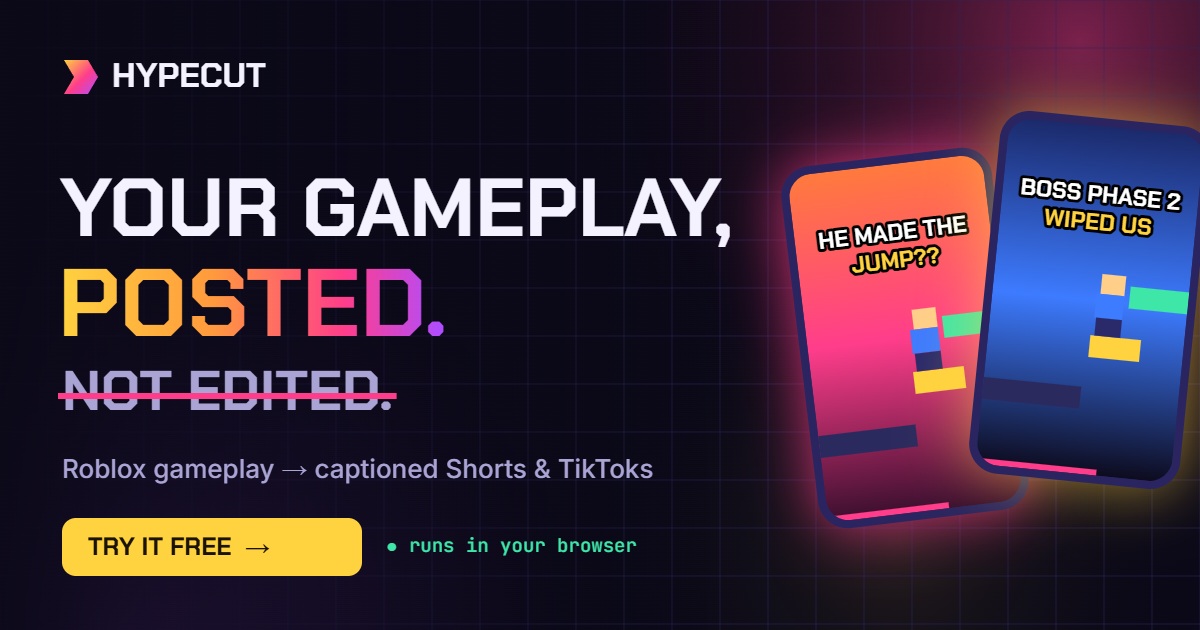
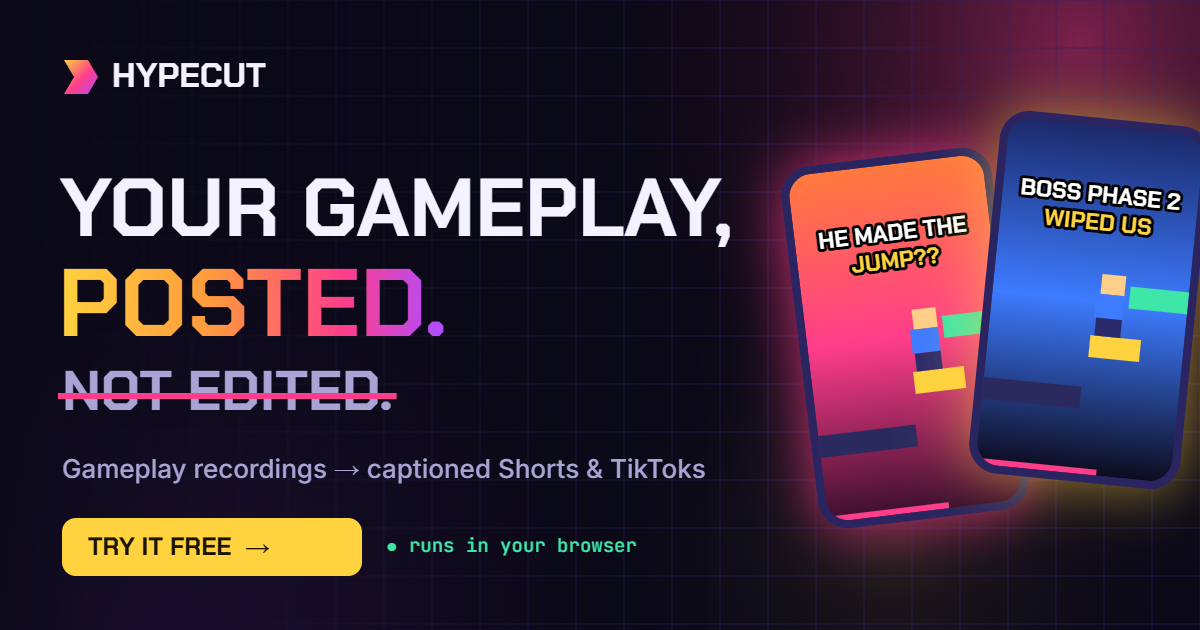
Remove leftover demo code (broke scripts), new share image without third-party branding, drop price-lock clause, claude.ai build works without demo

Changed region(s): [[0.0308, 0.7238, 0.5858, 0.7841]]

diff --git a/hypecut-site/index.html b/hypecut-site/index.html
@@ -266,80 +266,6 @@ nav.top .btn { padding: 10px 18px; font-size: .82rem; border-radius: 11px; margi
 .step p { color: var(--muted); }
 @media (max-width: 820px) { .steps { grid-template-columns: 1fr; } .steps-line { display: none; } }
 
-/* ---------- demo ---------- */
-.band { background: linear-gradient(180deg, transparent, color-mix(in srgb, var(--bg-2) 85%, transparent) 12%, color-mix(in srgb, var(--bg-2) 85%, transparent) 88%, transparent); }
-.demo { display: grid; grid-template-columns: 1fr 1.5fr; gap: 30px; align-items: start; }
-@media (max-width: 920px) { .demo { grid-template-columns: 1fr; } }
-.console { min-width: 0; overflow: hidden; }
-.console-bar { display: flex; align-items: center; justify-content: space-between; padding: 14px 18px; border-bottom: 1px solid var(--line); font-family: var(--f-mono); font-size: .76rem; color: var(--muted); }
-.dots { display: flex; gap: 7px; }
-.dots i { width: 11px; height: 11px; border-radius: 50%; background: var(--line); display: block; }
-.dots i:nth-child(1) { background: #ff5f57; } .dots i:nth-child(2) { background: #febc2e; } .dots i:nth-child(3) { background: #28c840; }
-.console-body { padding: 22px; display: grid; gap: 18px; }
-.drop { position: relative; border-radius: 18px; padding: 30px 16px; text-align: center; display: grid; gap: 10px; justify-items: center; cursor: pointer; background: color-mix(in srgb, var(--bg) 60%, transparent); transition: background .3s, transform .3s var(--ease); }
-.drop::before { content: ""; position: absolute; inset: 0; border-radius: inherit; padding: 2px; background: repeating-linear-gradient(90deg, var(--line) 0 10px, transparent 10px 18px); -webkit-mask: linear-gradient(#000 0 0) content-box, linear-gradient(#000 0 0); -webkit-mask-composite: xor; mask-composite: exclude; transition: background .3s; }
-.drop:hover, .drop.over { background: color-mix(in srgb, var(--cta) 7%, transparent); transform: scale(1.01); }
-.drop:hover::before, .drop.over::before { background: repeating-linear-gradient(90deg, var(--cta) 0 10px, transparent 10px 18px); animation: hc-march .8s linear infinite; }
-@keyframes hc-march { to { background-position: 18px 0; } }
-.drop svg { transition: transform .5s var(--ease-back); }
-.drop:hover svg { transform: translateY(-5px); }
-.drop strong { font-family: var(--f-display); font-size: 1.2rem; text-transform: uppercase; }
-.drop span { color: var(--muted); font-size: .9rem; }
-.drop input { position: absolute; width: 1px; height: 1px; opacity: 0; pointer-events: none; }
-.opts { display: grid; grid-template-columns: 1fr 1fr; gap: 12px; }
-.opts label { display: grid; gap: 6px; font-size: .74rem; color: var(--muted); font-family: var(--f-mono); text-transform: uppercase; letter-spacing: .08em; }
-select { font: inherit; font-family: var(--f-body); text-transform: none; letter-spacing: 0; font-size: .95rem; background: var(--bg); color: var(--fg); border: 0; box-shadow: inset 0 0 0 1px var(--line); border-radius: 12px; padding: 10px 12px; transition: box-shadow .25s; }
-select:hover { box-shadow: inset 0 0 0 1px var(--muted); }
-.file-row { display: flex; justify-content: space-between; gap: 12px; font-family: var(--f-mono); font-size: .8rem; background: var(--bg); box-shadow: inset 0 0 0 1px var(--line); border-radius: 12px; padding: 11px 13px; min-width: 0; }
-.file-row .name { overflow: hidden; text-overflow: ellipsis; white-space: nowrap; min-width: 0; }
-.file-row .size { color: var(--muted); flex-shrink: 0; }
-.wave { display: flex; align-items: center; gap: 3px; height: 44px; padding: 0 2px; }
-.wave i { flex: 1; min-width: 2px; border-radius: 2px; background: var(--line); height: var(--h, 20%); transition: background .3s, height .3s var(--ease); }
-.wave i.hit { background: linear-gradient(var(--cta), var(--hot)); }
-.wave.scan i { animation: hc-eq .9s ease-in-out infinite alternate; animation-delay: calc(var(--i) * -37ms); }
-@keyframes hc-eq { to { height: calc(var(--h) * .35 + 10%); } }
-.prog { display: grid; gap: 8px; }
-.prog-track { height: 10px; background: var(--bg); box-shadow: inset 0 0 0 1px var(--line); border-radius: 999px; position: relative; overflow: hidden; }
-.prog-fill { position: absolute; inset: 0 auto 0 0; width: 0; border-radius: inherit; background: linear-gradient(90deg, var(--cta), var(--hot), var(--hot-2)); box-shadow: 0 0 18px var(--hot); transition: width .25s linear; }
-.prog-fill::after { content: ""; position: absolute; inset: 0; background: repeating-linear-gradient(-45deg, rgba(255,255,255,.22) 0 8px, transparent 8px 16px); animation: hc-march .6s linear infinite; background-size: 22px 100%; }
-.prog-label { display: flex; justify-content: space-between; font-family: var(--f-mono); font-size: .76rem; color: var(--muted); font-variant-numeric: tabular-nums; }
-.stages { list-style: none; margin: 0; padding: 0; display: grid; gap: 7px; font-family: var(--f-mono); font-size: .8rem; }
-.stages li { color: var(--muted); display: flex; gap: 10px; align-items: center; transition: color .3s, transform .4s var(--ease); }
-.stages li::before { content: ""; width: 14px; height: 14px; border-radius: 50%; box-shadow: inset 0 0 0 2px var(--line); flex-shrink: 0; transition: all .3s; }
-.stages li.active { color: var(--fg); transform: translateX(4px); }
-.stages li.active::before { box-shadow: inset 0 0 0 2px var(--cta); border-top: 2px solid transparent; animation: hc-spin .8s linear infinite; background: conic-gradient(var(--cta) 0 25%, transparent 25%); }
-.stages li.done { color: var(--ok); }
-.stages li.done::before { background: var(--ok); box-shadow: 0 0 10px var(--ok); }
-@keyframes hc-spin { to { transform: rotate(360deg); } }
-
-.clips-head { display: flex; justify-content: space-between; align-items: baseline; gap: 12px; margin-bottom: 16px; flex-wrap: wrap; }
-.clips-head h3 { font-size: 1.35rem; text-transform: uppercase; }
-.tag { font-family: var(--f-mono); font-size: .7rem; letter-spacing: .1em; text-transform: uppercase; box-shadow: inset 0 0 0 1px var(--line); color: var(--muted); padding: 4px 10px; border-radius: 999px; transition: color .3s, box-shadow .3s; }
-.tag.live { color: var(--cta); box-shadow: inset 0 0 0 1px var(--cta); }
-.clips { display: grid; grid-template-columns: repeat(3, 1fr); gap: 18px; min-width: 0; }
-@media (max-width: 560px) { .clips { grid-template-columns: 1fr 1fr; } .clips .clip:last-child { grid-column: 1 / -1; max-width: 60%; justify-self: center; width: 100%; } }
-.clip { display: grid; gap: 10px; min-width: 0; transition: opacity .4s, filter .4s; }
-.clip.dim { opacity: .25; filter: blur(2px) grayscale(.6); }
-.clip.enter { animation: hc-clipIn .8s var(--ease-back) both; animation-delay: var(--d); }
-@keyframes hc-clipIn { from { opacity: 0; transform: translateY(40px) scale(.85) rotate(-3deg); } to { opacity: 1; transform: none; } }
-.clip .frame { position: relative; aspect-ratio: 9/16; max-width: 100%; border-radius: 18px; overflow: hidden; background: var(--bg); cursor: pointer; box-shadow: 0 0 0 1px var(--line), 0 20px 40px -20px rgba(0,0,0,.8); transition: transform .5s var(--ease), box-shadow .5s var(--ease); }
-.clip .frame:hover { transform: translateY(-8px) scale(1.02); box-shadow: 0 0 0 2px var(--hot), 0 30px 50px -18px color-mix(in srgb, var(--hot) 70%, transparent); }
-.clip:not(.playing) .scene * { animation-play-state: paused; }
-.clip:not(.playing) .scene .cap { animation: none; }
-.play { position: absolute; left: 50%; top: 42%; transform: translate(-50%, -50%); width: 54px; height: 54px; border-radius: 50%; background: rgba(13, 11, 30, .55); backdrop-filter: blur(6px); box-shadow: inset 0 0 0 2px rgba(255,255,255,.9); display: grid; place-items: center; transition: transform .4s var(--ease-back), opacity .3s; }
-.play::before { content: ""; border-left: 15px solid #fff; border-top: 10px solid transparent; border-bottom: 10px solid transparent; margin-left: 4px; }
-.clip .frame:hover .play { transform: translate(-50%, -50%) scale(1.15); }
-.clip.playing .play { opacity: 0; transform: translate(-50%, -50%) scale(1.6); }
-.score { position: absolute; top: 9px; left: 9px; font-family: var(--f-mono); font-size: .68rem; background: var(--cta); color: var(--cta-ink); padding: 3px 7px; border-radius: 7px; font-weight: 500; }
-.dur { position: absolute; top: 9px; right: 9px; font-family: var(--f-mono); font-size: .68rem; background: rgba(0,0,0,.55); color: #fff; padding: 3px 7px; border-radius: 7px; font-variant-numeric: tabular-nums; }
-.clip .meta { display: grid; gap: 4px; }
-.clip .meta b { font-family: var(--f-display); text-transform: uppercase; font-size: .98rem; line-height: 1.15; }
-.clip .meta small { color: var(--muted); font-size: .76rem; font-family: var(--f-mono); }
-.clip .dl { display: flex; gap: 6px; flex-wrap: wrap; }
-.clip .dl button { font: inherit; font-family: var(--f-mono); font-size: .7rem; text-transform: uppercase; background: transparent; color: var(--fg); border: 0; box-shadow: inset 0 0 0 1px var(--line); border-radius: 8px; padding: 6px 9px; cursor: pointer; transition: box-shadow .25s, color .25s, transform .25s var(--ease); }
-.clip .dl button:hover { box-shadow: inset 0 0 0 1px var(--cta); color: var(--cta); transform: translateY(-2px); }
-.toast { margin-top: 18px; font-family: var(--f-mono); font-size: .8rem; color: var(--muted); min-height: 1.4em; }
-
 /* ---------- pricing ---------- */
 .plans { display: grid; grid-template-columns: repeat(2, minmax(0, 400px)); gap: 26px; }
 @media (max-width: 760px) { .plans { grid-template-columns: 1fr; } }
@@ -780,116 +706,6 @@ footer a:hover { color: var(--cta); }
   }
   document.getElementById("heroPhone1").innerHTML = sceneHTML(SCENES[0], true);
   document.getElementById("heroPhone2").innerHTML = sceneHTML(SCENES[1], true);
-
-  // ---------- clip cards ----------
-  const clipsEl = document.getElementById("clips");
-  const toast = document.getElementById("toast");
-  function renderClips(list, animate) {
-    clipsEl.querySelectorAll(".clip").forEach(c => clearInterval(c._t));
-    clipsEl.innerHTML = "";
-    list.forEach((s, i) => {
-      const c = document.createElement("article");
-      c.className = "clip" + (animate ? " enter" : "");
-      c.style.setProperty("--d", i * 0.14 + "s");
-      c.innerHTML =
-        '<div class="frame" role="button" tabindex="0" aria-label="Preview clip: ' + s.title + '">' + sceneHTML(s, false) +
-        '<span class="score">HYPE ' + s.score + '</span><span class="dur">' + s.dur + '</span><span class="play"></span></div>' +
-        '<div class="meta"><b>' + s.title + '</b><small>from ' + s.src + ' in recording</small></div>' +
-        '<div class="dl"><button type="button" data-fmt="Shorts">↓ Shorts</button><button type="button" data-fmt="TikTok">↓ TikTok</button></div>';
-      const frame = c.querySelector(".frame");
-      const pbar = c.querySelector(".bar");
-      const toggle = () => {
-        if (c.classList.contains("playing")) { c.classList.remove("playing"); clearInterval(c._t); return; }
-        c.classList.add("playing");
-        let w = parseFloat(pbar.style.width) || 0;
-        if (w >= 100) w = 0;
-        c._t = setInterval(() => {
-          w += 1.2; pbar.style.width = w + "%";
-          if (w >= 100) { clearInterval(c._t); c.classList.remove("playing"); }
-        }, 50);
-      };
-      frame.addEventListener("click", toggle);
-      frame.addEventListener("keydown", e => { if (e.key === "Enter" || e.key === " ") { e.preventDefault(); toggle(); } });
-      c.querySelectorAll(".dl button").forEach(b => b.addEventListener("click", () => {
-        toast.textContent = "Demo only: in the real app, “" + s.title + "” would download as a 1080×1920 " + b.dataset.fmt + " file.";
-      }));
-      clipsEl.appendChild(c);
-    });
-  }
-  renderClips(SCENES.slice(0, 3), false);
-
-  // ---------- waveform ----------
-  const wave = document.getElementById("wave");
-  const BARS = 48;
-  const heights = Array.from({ length: BARS }, (_, i) => 18 + Math.abs(Math.sin(i * .7) * 50) + Math.random() * 30);
-  wave.innerHTML = heights.map((h, i) => '<i style="--h:' + Math.min(100, h) + '%;--i:' + i + '"></i>').join("");
-  const waveBars = [...wave.children];
-
-  // ---------- fake upload / processing ----------
-  const drop = document.getElementById("drop");
-  const fileIn = document.getElementById("fileIn");
-  const fileName = document.getElementById("fileName");
-  const fileSize = document.getElementById("fileSize");
-  const runBtn = document.getElementById("runBtn");
-  const fill = document.getElementById("progFill");
-  const pText = document.getElementById("progText");
-  const pPct = document.getElementById("progPct");
-  const stages = [...document.querySelectorAll("#stages li")];
-  const clipsTag = document.getElementById("clipsTag");
-  let running = false;
-
-  function setFile(f) {
-    if (!f) return;
-    fileName.textContent = f.name;
-    const mb = f.size / 1048576;
-    fileSize.textContent = mb > 1024 ? (mb / 1024).toFixed(1) + " GB" : mb.toFixed(1) + " MB";
-    toast.textContent = "File selected. It stays on your device: this demo doesn't upload anything.";
-    run();
-  }
-  fileIn.addEventListener("change", () => setFile(fileIn.files[0]));
-  ["dragenter", "dragover"].forEach(ev => drop.addEventListener(ev, e => { e.preventDefault(); drop.classList.add("over"); }));
-  ["dragleave", "drop"].forEach(ev => drop.addEventListener(ev, e => { e.preventDefault(); drop.classList.remove("over"); }));
-  drop.addEventListener("drop", e => setFile(e.dataTransfer.files[0]));
-  runBtn.addEventListener("click", run);
-
-  function run() {
-    if (running) return;
-    running = true;
-    runBtn.disabled = true;
-    runBtn.innerHTML = "Working…";
-    clipsTag.textContent = "Processing"; clipsTag.classList.add("live");
-    clipsEl.querySelectorAll(".clip").forEach(c => c.classList.add("dim"));
-    stages.forEach(s => s.className = "");
-    waveBars.forEach(b => b.classList.remove("hit"));
-    wave.classList.add("scan");
-    const labels = ["Uploading", "Scanning highlights", "Cropping to 9:16", "Writing captions"];
-    const hits = new Set([7, 8, 9, 21, 22, 34, 35, 36]);
-    let pct = 0;
-    const t = setInterval(() => {
-      pct = Math.min(100, pct + 0.8 + Math.random() * 1.8);
-      const stage = Math.min(3, Math.floor(pct / 25));
-      stages.forEach((s, i) => s.className = i < stage ? "done" : i === stage ? "active" : "");
-      fill.style.width = pct + "%";
-      pPct.textContent = Math.floor(pct) + "%";
-      pText.textContent = labels[stage] + "…";
-      const scanIdx = Math.floor((pct / 100) * BARS);
-      waveBars.forEach((b, i) => { if (i <= scanIdx && hits.has(i)) b.classList.add("hit"); });
-      if (pct >= 100) {
-        clearInterval(t);
-        wave.classList.remove("scan");
-        stages.forEach(s => s.className = "done");
-        pText.textContent = "Done · found 3 clips";
-        const n = +document.getElementById("optCount").value;
-        const pool = SCENES.slice().sort(() => Math.random() - .5).slice(0, 3).sort((a, b) => b.score - a.score);
-        renderClips(pool, true);
-        clipsTag.textContent = "Top 3 of " + n + " · " + document.getElementById("optStyle").value;
-        toast.textContent = "Tap a clip to preview it.";
-        runBtn.disabled = false;
-        runBtn.innerHTML = 'Run again <span class="arr">→</span>';
-        running = false;
-      }
-    }, 60);
-  }
 
   // ---------- FAQ: smooth open/close ----------
   document.querySelectorAll(".faq details").forEach(d => {

diff --git a/clutchcut.html b/clutchcut.html
@@ -472,7 +472,7 @@ footer a:hover { color: var(--cta); }
 <header class="hero" id="top">
   <div class="wrap">
     <div>
-      <span class="pill fade-up" style="--d:.05s"><b>BETA</b> For Roblox devs &amp; small studios</span>
+      <span class="pill fade-up" style="--d:.05s">For game creators &amp; small studios</span>
       <h1>
         <span class="ln"><span style="--d:.15s">Your gameplay,</span></span>
         <span class="ln"><span class="grad" style="--d:.3s">posted.</span></span>
@@ -489,14 +489,14 @@ footer a:hover { color: var(--cta); }
       <div class="phone-tilt" id="tilt">
         <div class="hero-entrance" style="--d:.5s;position:absolute;inset:0"><div class="phone p1"><div class="screen" id="heroPhone1"></div><span class="notch"></span></div></div>
         <div class="hero-entrance" style="--d:.7s;position:absolute;inset:0"><div class="phone p2"><div class="screen" id="heroPhone2"></div><span class="notch"></span></div></div>
-        <div class="ui-chip c1 hero-entrance" style="--d:1.1s"><span class="dot"></span>Scanning 38:12 of footage</div>
+        <div class="ui-chip c1 hero-entrance" style="--d:1.1s"><span class="dot"></span>Finding the best moments</div>
         <div class="ui-chip c2 hero-entrance" style="--d:1.3s">Clip ready · <b>HYPE 96</b></div>
       </div>
     </div>
   </div>
   <div class="wrap">
     <div class="stats">
-      <div class="stat reveal" style="--d:0s"><div class="n"><span class="count" data-to="60">0</span><small>min</small></div><p>Max recording length per upload</p></div>
+      <div class="stat reveal" style="--d:0s"><div class="n">100%</div><p>Runs in your browser, nothing uploaded</p></div>
       <div class="stat reveal" style="--d:.08s"><div class="n">9:16</div><p>Vertical export for Shorts &amp; TikTok</p></div>
       <div class="stat reveal" style="--d:.16s"><div class="n">&lt;<span class="count" data-to="60">0</span><small>sec</small></div><p>Every clip, so it fits both platforms</p></div>
       <div class="stat reveal" style="--d:.24s"><div class="n"><span class="count" data-to="0">0</span><small>edits</small></div><p>Timeline work needed from you</p></div>
@@ -706,7 +706,7 @@ footer a:hover { color: var(--cta); }
         <h3>Pro</h3>
         <div class="price"><span class="amt" id="proAmt">$99.99</span> <small id="proPer">/ year</small></div>
         <p class="fine" id="proFine">That's $8.33 a month, billed yearly.</p>
-        <div class="deal"><span class="deal-chip" id="proDeal">About 10¢ a clip</span><span>Editors often charge $15+ per Short.</span></div>
+        <div class="deal"><span class="deal-chip" id="proDeal">About 10¢ a clip</span></div>
         <ul>
           <li><span><b id="proClips">80 clips</b> a month</span></li>
           <li><span><b>No watermark</b></span></li>
@@ -715,7 +715,7 @@ footer a:hover { color: var(--cta); }
           <li><span><b>Never stopped mid-project:</b> run out and we auto-add 10 clips for $4.99</span></li>
         </ul>
         <a class="btn magnetic" id="proBuy" href="https://hypecut-app.netlify.app/#pricing" target="_blank" rel="noopener">Get Pro yearly <span class="arr">→</span></a>
-        <p class="guarantee">🔒 <b>Launch price, locked in</b> for as long as you stay subscribed · <b>14-day money-back guarantee</b></p>
+        <p class="guarantee"><b>14-day money-back guarantee</b> · cancel anytime</p>
         <p class="fine" id="proAfter">Opens secure checkout on hypecut-app.netlify.app (Paddle: cards, PayPal and more). Cancel anytime.</p>
       </article>
     </div>
@@ -746,8 +746,8 @@ footer a:hover { color: var(--cta); }
         <div class="ans">Monthly is $19.99 for 20 clips a month; yearly is $99.99 for 80 clips a month. Checkout is handled securely by Paddle (cards, PayPal and more, with taxes included), and you land back in the tool with Pro unlocked: no watermark, up to 8 clips per video, 60-second clips and extra caption styles. Your plan renews automatically, and if you run out of clips mid-project we automatically add 10 more for $4.99 (at most 5 times a month), so you're never stopped. You also get a Pro key to unlock other browsers. Cancel anytime with the "Manage subscription" button in the tool, and get a full refund within 14 days.</div>
       </details>
       <details class="reveal" style="--d:.18s">
-        <summary>Is this an official Roblox product? <span class="pm" aria-hidden="true"></span></summary>
-        <div class="ans">No. Hypecut is an independent tool and isn't affiliated with or endorsed by Roblox Corporation. It works with recordings you make of your own game.</div>
+        <summary>Which games does it work with? <span class="pm" aria-hidden="true"></span></summary>
+        <div class="ans">Any game you can record on your computer. Hypecut works on the video file itself, so it doesn&#39;t need access to your game or account.</div>
       </details>
     </div>
   </div>
@@ -763,7 +763,7 @@ footer a:hover { color: var(--cta); }
 
 <footer>
   <div class="wrap">
-    <span>© 2026 Hypecut. Not affiliated with Roblox Corporation.</span>
+    <span>© 2026 Hypecut · Support: <a href="mailto:sehbag11@gmail.com">sehbag11@gmail.com</a></span>
     <span style="display:flex;gap:18px;flex-wrap:wrap"><a href="/terms">Terms</a><a href="/privacy">Privacy</a><a href="/refunds">Refunds</a><a href="#top">Back to top ↑</a></span>
   </div>
 </footer>

diff --git a/hypecut-site/terms.html b/hypecut-site/terms.html
@@ -48,7 +48,6 @@ b { color: var(--fg); }
     <li>Our order process is conducted by our online reseller <b>Paddle.com</b>. Paddle.com is the Merchant of Record for all our orders. Paddle provides all customer service inquiries and handles returns. Their <a href="https://www.paddle.com/legal/checkout-buyer-terms">buyer terms</a> apply to your purchase. We never see your full card details.</li>
     <li><b>Clip allowance:</b> Pro monthly includes 20 clips per calendar month and Pro yearly includes 80 clips per calendar month. Unused clips don't roll over. Each Pro clip can be up to 60 seconds, with up to 8 clips per video.</li>
     <li><b>Automatic top-ups:</b> so your projects aren't interrupted, if you run out of clips during a month we automatically add <b>10 extra clips for $4.99</b> (plus any applicable tax), charged straight away to the payment method on your subscription. This happens at most <b>5 times per calendar month</b> (50 extra clips, $24.95). Top-up clips expire at the end of that month. Each top-up shows as a separate charge on your receipts and in "Manage subscription".</li>
-    <li><b>Launch price lock:</b> if you subscribe at today's price, your renewal price stays the same for as long as your subscription stays active. If you cancel and later resubscribe, the price at that time applies.</li>
     <li>Pro renews automatically at the end of each billing period, charged to your saved payment method, until you cancel. If a renewal payment fails, Pro stays on while Paddle retries your card.</li>
     <li>After paying you return to the tool with Pro unlocked, and you get a Pro key (it starts with <b>HC-</b>). Keep it: pasting it into the tool unlocks Pro in other browsers or after clearing your browser data. Please don't share your key publicly.</li>
     <li>You can <b>cancel anytime</b> with the "Manage subscription" button in the tool. Pro stays active until the end of the period you've paid for.</li>
